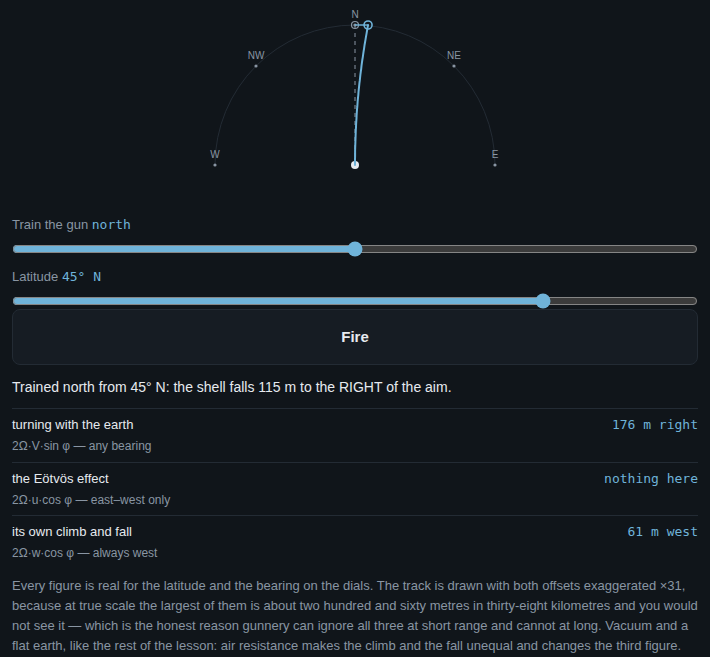
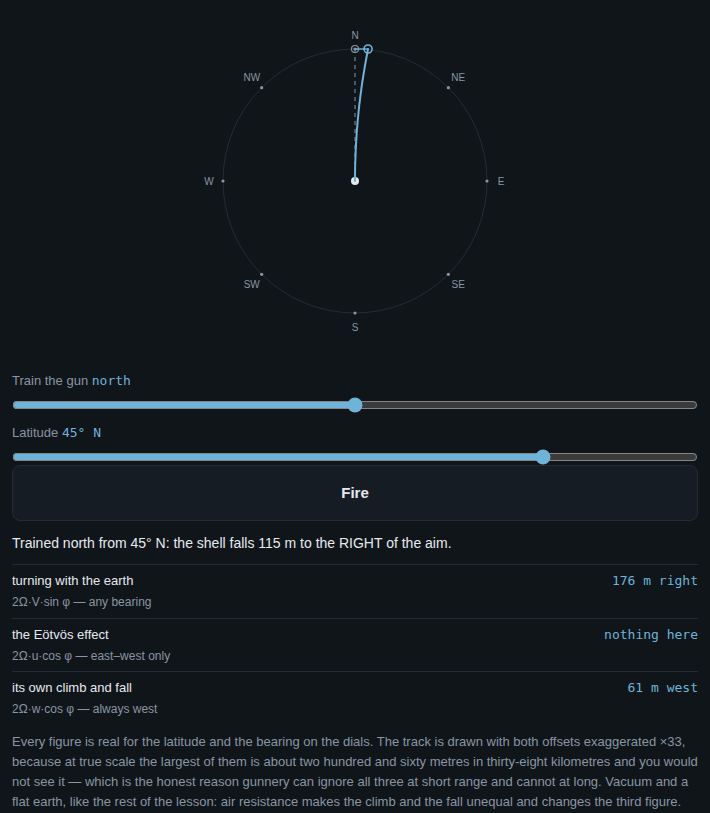
The gun trains the full 360, which is where two of the three terms add
Larry: "we need to add the ability to train the gun the full 360." He is
right, and the reason is the three components rather than completeness.

With the slider running -90 to +90 - west through north to east -
cos(bearing) is never negative, so the WESTWARD climb-and-fall term could
only ever SUBTRACT from the drift. The half that was out of reach is the
half where it ADDS, and that is where the lesson's own second number
lives: 115 m fired north at 45 N against 238 m fired south. A
demonstration of three components that cannot reach the setting where two
of them add was demonstrating one and a half.

So the gun sits at the centre of a full compass rose in a square box
rather than at the foot of an arc. Three things had to move with it:

  THE LABELS GO RADIALLY OUTWARD now. With a half circle every compass
  point was in the top half and "above the point" was always outside the
  drawing. On a full circle that puts S, SE and SW INSIDE it, where the
  track runs.

  THE BEARING NAMER WENT FROM FIVE SECTORS TO EIGHT. It is quoted by the
  readout and by the figure's own aria-label, so a sector the slider can
  reach and the namer cannot would leave the picture describing itself
  wrongly. Sectors are 45 degrees centred on their point, which puts every
  boundary on a 22.5 and leaves no slider value outside one.

  THE EXAGGERATION SCAN now sweeps the whole circle. The widest total the
  controls can reach is unchanged at 264 m - it was already in the
[…]

diff --git a/docs/web/weather/weather.js b/docs/web/weather/weather.js
@@ -14,7 +14,7 @@
    ===================================================================== */
 'use strict';
 
-var BUILD = '7 \u2014 26 Oct 2026';
+var BUILD = '8 \u2014 26 Oct 2026';
 
 var RECS = [];
 var OBS = [];
@@ -605,9 +605,17 @@ window.addEventListener('DOMContentLoaded', function () {
    perpendicular to the track, always to the right in the northern
    hemisphere -- WHATEVER THE BEARING. Fired north and fired south are
    not two curiosities, they are two cases of one rule, and the way to
-   show that is to let a reader swing the gun through the whole 180 and
-   watch the rule hold at every setting. The static figure can only assert
-   it.
+   show that is to let a reader swing the gun round and watch the rule
+   hold at every setting. The static figure can only assert it.
+
+   AND IT TRAINS THROUGH THE FULL 360, which started as a 180 and was
+   wrong at 180. With the arc running west-north-east, cos(bearing) is
+   never negative, so the westward climb-and-fall term could only ever
+   SUBTRACT from the drift. The south half is the half where it ADDS -
+   and that is where the lesson's own second number lives: at 45 N the
+   drift is 115 m fired north and 237 m fired south. A demonstration of
+   three components that cannot reach the setting where two of them add
+   is demonstrating one and a half.
 
    WHAT IS COMPUTED HERE, because it matters that this is not a cartoon:
    the deflection shown in metres is the real one for the latitude on the
@@ -699,14 +707,16 @@ function gunSolve(lat, brg) {
 
 function gunDemo(host) {
   var NS = 'http://www.w3.org/2000/svg';
-  /*  THE ARC HAS TO FIT. Drawn at R = 210 in a 340-wide box the gun's
-      180 degrees ran off both edges: W and E were outside the canvas and
-      a shot trained north-east left the picture entirely. The radius is
-      bounded by the half-width less a margin, and the margin has to carry
-      the deflection too, which at the exaggeration below reaches about
-      forty pixels beyond the arc.  */
-  var W = 360, H = 204, cx = W / 2, cy = H - 40;   /* the gun, bottom centre */
-  var R = 140;                                      /* the range, in pixels  */
+  /*  THE CIRCLE HAS TO FIT, and the box is square now. With a half-circle
+      the gun sat 40 px off the bottom edge and the picture only had to
+      hold the top half; a full 360 puts the gun at the CENTRE and needs
+      the same clearance in every direction. The radius is bounded by the
+      half-width less a margin, and the margin carries three things: the
+      compass labels, which sit 14 px outside the circle, the text above
+      them, and the drawn offset, which at the exaggeration below reaches
+      about thirty pixels beyond it. 132 + 14 + text is inside 180.  */
+  var W = 360, H = 360, cx = W / 2, cy = H / 2;    /* the gun, dead centre  */
+  var R = 132;                                      /* the range, in pixels  */
   /*  THE EXAGGERATION IS DERIVED, NOT CHOSEN. Fixed at 60 the drawing left
       the box: trained due east at 80 degrees the deflection is to the
       right of east, which is downward, and it ran past the bottom edge.
@@ -726,7 +736,7 @@ function gunDemo(host) {
   var budget = 30;                                  /* px, the largest offset drawn */
   var dmax = 0, _la, _br, _s, _m;
   for (_la = -80; _la <= 80; _la++) {
-    for (_br = -90; _br <= 90; _br += 5) {
+    for (_br = -180; _br <= 180; _br += 5) {
       _s = gunSolve(_la, _br);
       _m = Math.sqrt(_s.drift * _s.drift + _s.along * _s.along);
       if (_m > dmax) dmax = _m;
@@ -754,15 +764,22 @@ function gunDemo(host) {
       text = css('--text'), warn = css('--warn');
   var gArc = e('g'), gAim = e('g'), gTrack = e('g'), gMark = e('g'), gLbl = e('g');
 
-  /*  the arc the gun can be trained through, and the compass points on it  */
-  e('path', { d: 'M ' + (cx - R) + ' ' + cy + ' A ' + R + ' ' + R + ' 0 0 1 ' +
-                 (cx + R) + ' ' + cy, fill: 'none', stroke: line, 'stroke-width': 1 }, gArc);
-  [['W', -90], ['NW', -45], ['N', 0], ['NE', 45], ['E', 90]].forEach(function (c) {
+  /*  the circle the gun can be trained through, and the compass rose on it.
+      THE LABELS GO RADIALLY OUTWARD, not above the point. With a half
+      circle every label sat in the top half and "above" was always
+      outside; on a full circle "above" puts S, SE and SW INSIDE the
+      drawing, where the track runs through them. So each one is pushed
+      out along its own bearing, and the baseline nudge keeps the text
+      optically centred on that point rather than hanging off it.  */
+  e('circle', { cx: cx, cy: cy, r: R, fill: 'none', stroke: line, 'stroke-width': 1 }, gArc);
+  [['N', 0], ['NE', 45], ['E', 90], ['SE', 135],
+   ['S', 180], ['SW', -135], ['W', -90], ['NW', -45]].forEach(function (c) {
     var a = c[1] * Math.PI / 180;
     var x = cx + R * Math.sin(a), y = cy - R * Math.cos(a);
+    var lx = cx + (R + 14) * Math.sin(a), ly = cy - (R + 14) * Math.cos(a);
     e('circle', { cx: x, cy: y, r: 1.6, fill: dim }, gArc);
-    e('text', { x: x, y: y - 7, fill: dim, 'font-size': 10, 'text-anchor': 'middle' },
-      gArc).textContent = c[0];
+    e('text', { x: lx, y: ly + 3.5, fill: dim, 'font-size': 10,
+                'text-anchor': 'middle' }, gArc).textContent = c[0];
   });
   e('circle', { cx: cx, cy: cy, r: 4, fill: text }, gArc);
 
@@ -833,13 +850,23 @@ function gunDemo(host) {
       (sv.along >= 0 ? 'long' : 'short') + '.');
   }
 
+  /*  EIGHT POINTS, NOT FIVE. The name is what the readout and the
+      figure's own aria-label both say, so a sector the slider can reach
+      and the namer cannot would leave the picture describing itself
+      wrongly. Sectors are 45 degrees wide and centred on their point,
+      which puts every boundary on a 22.5 and means no value of the
+      slider falls outside one.  */
   function gunBearingName() {
     var b = GUN.brg;
-    if (b <= -75) return 'west';
-    if (b < -15) return 'north-west';
-    if (b <= 15) return 'north';
-    if (b < 75) return 'north-east';
-    return 'east';
+    if (b < -157.5) return 'south';
+    if (b < -112.5) return 'south-west';
+    if (b < -67.5) return 'west';
+    if (b < -22.5) return 'north-west';
+    if (b <= 22.5) return 'north';
+    if (b <= 67.5) return 'north-east';
+    if (b <= 112.5) return 'east';
+    if (b <= 157.5) return 'south-east';
+    return 'south';
   }
 
   /* ---- the controls ------------------------------------------------ */
@@ -919,7 +946,7 @@ function gunDemo(host) {
     readout.textContent = t;
   }
 
-  slider('gun-brg', 'Train the gun', -90, 90, 1, GUN.brg,
+  slider('gun-brg', 'Train the gun', -180, 180, 1, GUN.brg,
          function (v) { GUN.brg = v; return gunBearingName(); },
          function (v) { GUN.brg = v; redraw(shown); say(); });
   slider('gun-lat', 'Latitude', -80, 80, 1, GUN.lat,

diff --git a/docs/web/tests/weather-gun.js b/docs/web/tests/weather-gun.js
@@ -169,8 +169,9 @@ function is(what, got, want) {
 
   /* ---- 1. the two corrections, against the integration ----------- */
   for (const [brg, lat] of [[0, 45], [90, 45], [-90, 45], [45, 45], [-30, 20],
-                            [0, 0], [90, 0], [0, 80], [90, 80],
-                            [0, -45], [90, -45], [-60, -70]]) {
+                            [180, 45], [135, 45], [-135, 45], [180, 0], [180, -45],
+                            [0, 0], [90, 0], [0, 80], [90, 80], [180, 80],
+                            [0, -45], [90, -45], [-60, -70], [-180, -70]]) {
     const r = await read(brg, lat);
     const f = fly(r.lat, r.brg, gun.range, gun.tof);
     /*  WHY THE TOLERANCE IS 2.5 METRES AND NOT A ROUNDING ALLOWANCE. The
@@ -197,7 +198,7 @@ function is(what, got, want) {
 
   /* ---- 2. the turning term: bearing-blind, sin(lat), reversing --- */
   const t45 = comp(await read(0, 45), TURN, 'right');
-  for (const brg of [-90, -45, -17, 0, 23, 45, 90]) {
+  for (const brg of [-180, -135, -90, -45, -17, 0, 23, 45, 90, 135, 180]) {
     near('the turning term at brg ' + brg + ', 45 N', comp(await read(brg, 45), TURN, 'right'),
          t45, 0.6);
   }
@@ -255,8 +256,57 @@ function is(what, got, want) {
     near('fired north on the equator it goes west', r.drift, fly(0, 0, gun.range, gun.tof).drift, 1.5);
   }
 
-  /* ---- 6. the drawing agrees with the words ---------------------- */
-  for (const [brg, lat] of [[0, 45], [90, 45], [-90, 45], [0, -45], [90, 0]]) {
+  /* ---- 6. THE SOUTH HALF, which the 180 slider could not reach ----
+       With the gun trainable only west-north-east, cos(bearing) is never
+       negative and the westward climb-and-fall term could only SUBTRACT
+       from the drift. The other half is where it adds, and the two
+       numbers the lesson quotes - 115 m fired north and 238 m fired south
+       at 45 N - are a pair the old demonstration could show only half of.
+
+       THE FIRST VERSION OF THIS CHECK WAS WRONG, and it is worth leaving
+       the reason here. It asserted the drift is larger fired south "in
+       both hemispheres". It is not: the term is always westward, the
+       drift is right of the track in the north and left of it in the
+       south, so the bearing on which the two agree flips over. At 45 S
+       the larger shot is the one fired NORTH - 238 m against 115 m.
+
+       The hemisphere-free statement is the one worth checking, and it is
+       also the term's whole signature: OF THE TWO, THE LARGER IS ALWAYS
+       THE ONE WHOSE DRIFT POINTS WEST, and they differ by exactly twice
+       the term.  */
+  for (const lat of [45, 20, -45, -70]) {
+    const n = await read(0, lat), so = await read(180, lat);
+    const rise = comp(n, RISE, 'west');
+    near('north and south at ' + n.lat + ' differ by twice the rise term',
+         Math.abs(Math.abs(so.drift) - Math.abs(n.drift)), 2 * rise, 1.6);
+    /*  is the drift westward? it lies to the RIGHT of the track, whose
+        right-hand unit vector is (cos b, -sin b) in east-north, so the
+        east component of the drift is drift*cos(b) and west is negative  */
+    const eastOf = (r) => r.drift * Math.cos(r.brg * Math.PI / 180);
+    const bigger = Math.abs(so.drift) > Math.abs(n.drift) ? so : n;
+    checks++;
+    if (!(eastOf(bigger) < 0)) {
+      bad++; console.log('  FAIL at ' + n.lat + ' the larger shot is not the westward one');
+    }
+    /*  and both are still to the same side, which is the lesson  */
+    is('north and south at ' + n.lat + ' deflect the same way',
+       Math.sign(so.drift), Math.sign(n.drift));
+  }
+  //  and the namer must cover every sector the slider can now reach
+  for (const [brg, want] of [[0, 'north'], [45, 'north-east'], [90, 'east'],
+                             [135, 'south-east'], [180, 'south'], [-135, 'south-west'],
+                             [-90, 'west'], [-45, 'north-west'], [-180, 'south']]) {
+    const r = await read(brg, 45);
+    checks++;
+    if (!(new RegExp('Trained ' + want + ' ')).test(r.text)) {
+      bad++; console.log('  FAIL brg ' + brg + ' is not named ' + want + ': ' +
+                         JSON.stringify(r.text.slice(0, 48)));
+    }
+  }
+
+  /* ---- 7. the drawing agrees with the words ---------------------- */
+  for (const [brg, lat] of [[0, 45], [90, 45], [-90, 45], [0, -45], [90, 0],
+                            [180, 45], [135, 45], [-135, 45], [180, -45]]) {
     const r = await read(brg, lat);
     const a = brg * Math.PI / 180;
     const ux = Math.sin(a), uy = -Math.cos(a);        /* along the line of fire */

diff --git a/docs/index.html b/docs/index.html
@@ -499,8 +499,8 @@ You see a power-driven vessel showing her red sidelight, on your starboard beam,
       <figcaption><b>From a 500 mb chart.</b> The app cannot fetch a chart and never will, but a 500 mb chart arrives by HF radiofax, on an SSB receiver, with no connectivity at all &mdash; which is exactly the situation the rest of this is built for. Give it three numbers off the fax and it walks the rules on the steering flow above the surface weather.</figcaption>
     </figure>
     <figure>
-      <img class="shot" src="img/app/weather-coriolis.png" alt="The gunnery demonstration: a gun at the bottom of a 180 degree arc trained north, the shell&rsquo;s track curving right of the aim, sliders for bearing and latitude, a Fire button, and three named components with their figures &mdash; turning with the earth, the E&ouml;tv&ouml;s effect, and the shell&rsquo;s own climb and fall" loading="lazy">
-      <figcaption><b>Coriolis, demonstrated by naval gunfire.</b> Train the gun anywhere through the 180&deg;, set the latitude from 80&deg;&nbsp;S to 80&deg;&nbsp;N, and fire. The lesson behind it stands off the planet and works in the frame where nothing curves and nothing pushes: what is conserved is angular momentum about the earth&rsquo;s axis. A shell fired north from 45&deg;&nbsp;N is carried closer to that axis, must run faster east to keep <em>u&nbsp;&times;&nbsp;r</em>, and outruns the slower ground beneath &mdash; fired south it lags the faster ground. Going north, east is to your right; going south, west is to your right. <b>Both deflect right.</b> But that story only explains a shot that changes its distance from the axis, and an east&ndash;west one does not &mdash; so the demonstration names all three components and shows them change as you train the gun. <b>Turning with the earth</b> is 2&Omega;&middot;V&middot;sin&nbsp;&phi;, about 176&nbsp;m at 45&deg;&nbsp;N and the same at every bearing. <b>The E&ouml;tv&ouml;s effect</b> acts on the east&ndash;west component alone, so a shell fired east carries 169&nbsp;m further and one fired west falls that much short. <b>Its own climb and fall</b> adds 61&nbsp;m to the west whichever way the gun points, and &mdash; unlike the other two &mdash; does not reverse with hemisphere. Which is why fired north at 45&deg;&nbsp;N the drift is 115&nbsp;m and fired south it is 238&nbsp;m: both right, not both the same.</figcaption>
+      <img class="shot" src="img/app/weather-coriolis.png" alt="The gunnery demonstration: a gun at the centre of a full compass rose, trained north, the shell&rsquo;s track curving right of the aim, sliders for bearing and latitude, a Fire button, and three named components with their figures &mdash; turning with the earth, the E&ouml;tv&ouml;s effect, and the shell&rsquo;s own climb and fall" loading="lazy">
+      <figcaption><b>Coriolis, demonstrated by naval gunfire.</b> Train the gun anywhere round the compass, set the latitude from 80&deg;&nbsp;S to 80&deg;&nbsp;N, and fire. The lesson behind it stands off the planet and works in the frame where nothing curves and nothing pushes: what is conserved is angular momentum about the earth&rsquo;s axis. A shell fired north from 45&deg;&nbsp;N is carried closer to that axis, must run faster east to keep <em>u&nbsp;&times;&nbsp;r</em>, and outruns the slower ground beneath &mdash; fired south it lags the faster ground. Going north, east is to your right; going south, west is to your right. <b>Both deflect right.</b> But that story only explains a shot that changes its distance from the axis, and an east&ndash;west one does not &mdash; so the demonstration names all three components and shows them change as you train the gun. <b>Turning with the earth</b> is 2&Omega;&middot;V&middot;sin&nbsp;&phi;, about 176&nbsp;m at 45&deg;&nbsp;N and the same at every bearing. <b>The E&ouml;tv&ouml;s effect</b> acts on the east&ndash;west component alone, so a shell fired east carries 169&nbsp;m further and one fired west falls that much short. <b>Its own climb and fall</b> adds 61&nbsp;m to the west whichever way the gun points, and &mdash; unlike the other two &mdash; does not reverse with hemisphere. Which is why fired north at 45&deg;&nbsp;N the drift is 115&nbsp;m and fired south it is 238&nbsp;m: both right, not both the same. The gun trains the full 360&deg; for exactly that reason &mdash; the westward term only adds to the drift on the bearings whose right-hand side faces west, and a half-circle cannot reach them.</figcaption>
     </figure>
 </section>
 

diff --git a/docs/site-template.html b/docs/site-template.html
@@ -416,8 +416,8 @@ celnav fix</pre>
       <figcaption><b>From a 500 mb chart.</b> The app cannot fetch a chart and never will, but a 500 mb chart arrives by HF radiofax, on an SSB receiver, with no connectivity at all &mdash; which is exactly the situation the rest of this is built for. Give it three numbers off the fax and it walks the rules on the steering flow above the surface weather.</figcaption>
     </figure>
     <figure>
-      <img class="shot" src="img/app/weather-coriolis.png" alt="The gunnery demonstration: a gun at the bottom of a 180 degree arc trained north, the shell&rsquo;s track curving right of the aim, sliders for bearing and latitude, a Fire button, and three named components with their figures &mdash; turning with the earth, the E&ouml;tv&ouml;s effect, and the shell&rsquo;s own climb and fall" loading="lazy">
-      <figcaption><b>Coriolis, demonstrated by naval gunfire.</b> Train the gun anywhere through the 180&deg;, set the latitude from 80&deg;&nbsp;S to 80&deg;&nbsp;N, and fire. The lesson behind it stands off the planet and works in the frame where nothing curves and nothing pushes: what is conserved is angular momentum about the earth&rsquo;s axis. A shell fired north from 45&deg;&nbsp;N is carried closer to that axis, must run faster east to keep <em>u&nbsp;&times;&nbsp;r</em>, and outruns the slower ground beneath &mdash; fired south it lags the faster ground. Going north, east is to your right; going south, west is to your right. <b>Both deflect right.</b> But that story only explains a shot that changes its distance from the axis, and an east&ndash;west one does not &mdash; so the demonstration names all three components and shows them change as you train the gun. <b>Turning with the earth</b> is 2&Omega;&middot;V&middot;sin&nbsp;&phi;, about 176&nbsp;m at 45&deg;&nbsp;N and the same at every bearing. <b>The E&ouml;tv&ouml;s effect</b> acts on the east&ndash;west component alone, so a shell fired east carries 169&nbsp;m further and one fired west falls that much short. <b>Its own climb and fall</b> adds 61&nbsp;m to the west whichever way the gun points, and &mdash; unlike the other two &mdash; does not reverse with hemisphere. Which is why fired north at 45&deg;&nbsp;N the drift is 115&nbsp;m and fired south it is 238&nbsp;m: both right, not both the same.</figcaption>
+      <img class="shot" src="img/app/weather-coriolis.png" alt="The gunnery demonstration: a gun at the centre of a full compass rose, trained north, the shell&rsquo;s track curving right of the aim, sliders for bearing and latitude, a Fire button, and three named components with their figures &mdash; turning with the earth, the E&ouml;tv&ouml;s effect, and the shell&rsquo;s own climb and fall" loading="lazy">
+      <figcaption><b>Coriolis, demonstrated by naval gunfire.</b> Train the gun anywhere round the compass, set the latitude from 80&deg;&nbsp;S to 80&deg;&nbsp;N, and fire. The lesson behind it stands off the planet and works in the frame where nothing curves and nothing pushes: what is conserved is angular momentum about the earth&rsquo;s axis. A shell fired north from 45&deg;&nbsp;N is carried closer to that axis, must run faster east to keep <em>u&nbsp;&times;&nbsp;r</em>, and outruns the slower ground beneath &mdash; fired south it lags the faster ground. Going north, east is to your right; going south, west is to your right. <b>Both deflect right.</b> But that story only explains a shot that changes its distance from the axis, and an east&ndash;west one does not &mdash; so the demonstration names all three components and shows them change as you train the gun. <b>Turning with the earth</b> is 2&Omega;&middot;V&middot;sin&nbsp;&phi;, about 176&nbsp;m at 45&deg;&nbsp;N and the same at every bearing. <b>The E&ouml;tv&ouml;s effect</b> acts on the east&ndash;west component alone, so a shell fired east carries 169&nbsp;m further and one fired west falls that much short. <b>Its own climb and fall</b> adds 61&nbsp;m to the west whichever way the gun points, and &mdash; unlike the other two &mdash; does not reverse with hemisphere. Which is why fired north at 45&deg;&nbsp;N the drift is 115&nbsp;m and fired south it is 238&nbsp;m: both right, not both the same. The gun trains the full 360&deg; for exactly that reason &mdash; the westward term only adds to the drift on the bearings whose right-hand side faces west, and a half-circle cannot reach them.</figcaption>
     </figure>
 </section>
 

diff --git a/docs/web/weather/sw.js b/docs/web/weather/sw.js
@@ -7,7 +7,7 @@
 //  installed copy serves what it already has until THIS file's bytes
 //  differ. The page no longer names this string -- it finds the cache by
 //  prefix -- so bumping it here is all that is needed.
-const CACHE = 'weather-v7'
+const CACHE = 'weather-v8'
 //  this tool's family, derived from CACHE so there is no second
 //  constant to drift out of step with it
 const FAMILY = 'weather-';

diff --git a/REPO-STATE.md b/REPO-STATE.md
@@ -974,7 +974,7 @@ explains why it is a fourth copy of the grid rather than a shared one, and what
 to do if a fifth tool ever needs it.
 
 **And then Larry asked for it to move.** The browser's version is now a
-drawing you operate: the gun trains through the whole 180°, it fires and the
+drawing you operate: the gun trains round the compass, it fires and the
 shell traces its arc, and a latitude slider runs from 80° S to 80° N. That makes
 the lesson's argument stronger rather than only prettier — for horizontal motion
 the deflecting acceleration is `2Ω v sin φ` perpendicular to the track *whatever
@@ -1106,6 +1106,38 @@ produces a picture 5,641 px tall and 790 KB — over the size cap in
 `tests/app-figures-check.sh` and unreadable besides — so `app-figures.js` grew a
 `crop` option and `weather-coriolis.png` is the demonstration itself, 710×657
 and 59 KB.
+
+### 5. And the gun only trained through half the circle
+
+*Same day, straight after.* Larry: **"we need to add the ability to train the gun
+the full 360."** He is right, and the reason is the one above rather than
+completeness for its own sake.
+
+With the slider running −90° to +90° — west through north to east — `cos φ` of the
+bearing is never negative, so the **westward climb-and-fall term could only ever
+subtract** from the drift. The half that was out of reach is the half where it
+*adds*, and that is where the lesson's own second number lives: 115 m fired north
+at 45 N against **238 m fired south**. A demonstration of three components that
+cannot reach the setting where two of them add was demonstrating one and a half.
+
+The gun now sits at the centre of a full compass rose in a square box rather than
+at the foot of an arc, with all eight points labelled radially outward — "above
+the point" put S, SE and SW *inside* the drawing, where the track runs. The
+bearing namer went from five sectors to eight, which matters because the readout
+and the figure's own `aria-label` both quote it: a sector the slider can reach and
+the namer cannot would leave the picture describing itself wrongly.
+
+**And the check caught an error of mine rather than the program's.** The new
+assertion said the drift is larger fired south "in both hemispheres". It is not.
+The term is always westward while the drift is right of the track in the north
+and left of it in the south, so the bearing on which the two agree flips over: at
+45 S the larger shot is the one fired **north**. The hemisphere-free statement is
+better and is the term's whole signature — *of the two, the larger is always the
+one whose drift points west, and they differ by exactly twice the term.* That is
+what is checked now, and the reasoning is in the check beside it.
+
+Four faults planted and caught, **the narrowed slider among them**, so the 180°
+cannot come back quietly. 158 checks. weather-v8, build 8.
 
 ---
 

diff --git a/docs/TESTING.md b/docs/TESTING.md
@@ -429,6 +429,28 @@ nonsense: the Eötvös term made bearing-blind, the climb-and-fall term reversed
 with hemisphere, that term dropped altogether, the Eötvös sign flipped, and the
 turning term halved. 99 checks when it is right.
 
+#### And then the check caught an error in the check
+
+Larry asked for the gun to train the full 360°, which it should: with the slider
+running west-north-east, `cos` of the bearing is never negative and the westward
+climb-and-fall term **could only ever subtract** from the drift. The half that
+was unreachable is the half where it adds, and that is where the lesson's second
+number lives — 115 m fired north at 45 N against 238 m fired south.
+
+The new assertion for it was wrong. It said the drift is larger fired south *in
+both hemispheres*; it is not. The term is always westward, while the drift lies
+right of the track in the north and left of it in the south, so the bearing on
+which the two agree flips over: **at 45 S the larger shot is the one fired
+north.** The failure was mine and the check reported it as a disagreement
+between the page and the computation, which is exactly what it is for — a check
+written from the physics rather than from the page can be wrong about the
+physics, and then it is the check that is wrong, not the program.
+
+The replacement is hemisphere-free and is the term's own signature: *of the two,
+the larger is always the one whose drift points west, and they differ by exactly
+twice the term.* Four faults planted and caught, **the narrowed slider among
+them**, so 180° cannot come back quietly. 158 checks.
+
 #### A no-sideways-scroll check does not see a figure clipped inside its own box
 
 `run-weather-web.sh` asserts that the page does not scroll sideways at 744, 390
